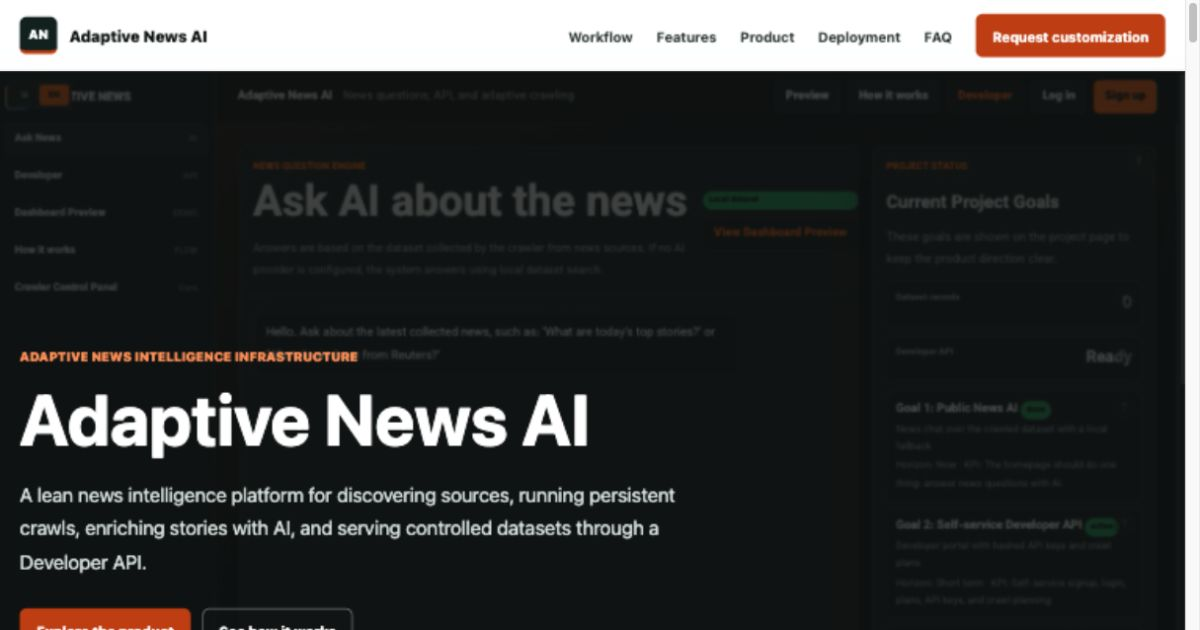
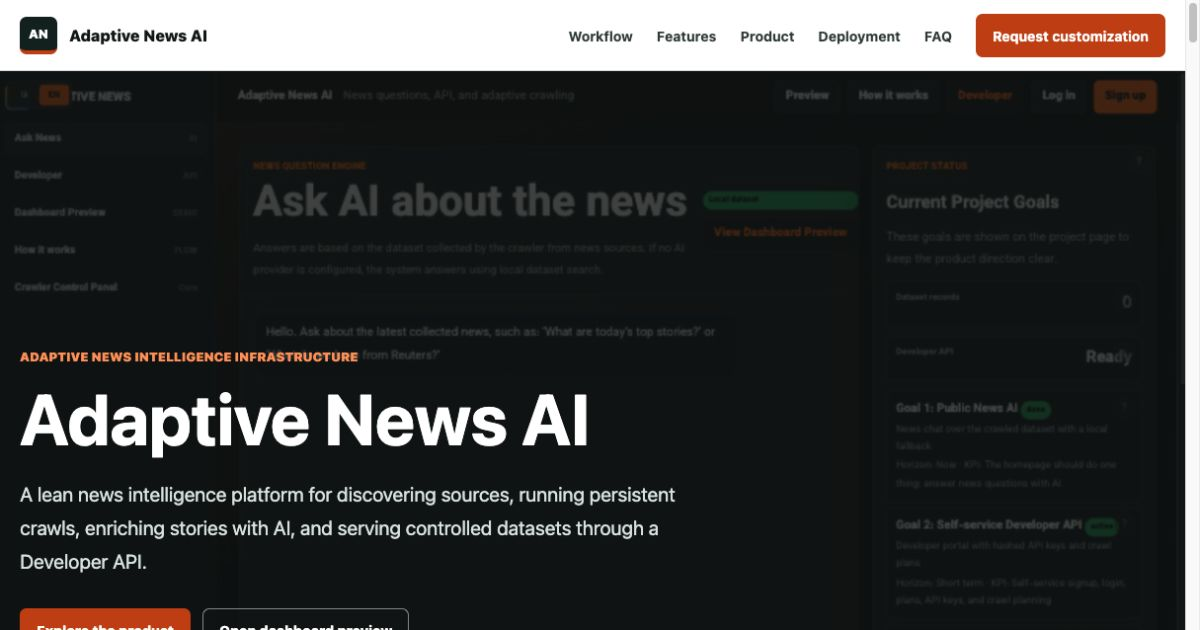
Add interactive dashboard preview

diff --git a/preview.html b/preview.html
@@ -1,0 +1,105 @@
+<!doctype html>
+<html lang="en" dir="ltr">
+<head>
+  <meta charset="utf-8">
+  <meta name="viewport" content="width=device-width, initial-scale=1, viewport-fit=cover">
+  <meta name="robots" content="index, follow">
+  <meta name="description" content="Interactive read-only preview of the Adaptive News AI operations dashboard.">
+  <link rel="canonical" href="https://digimasoud.github.io/adaptive-news-workflow/preview.html">
+  <link rel="icon" href="favicon.svg" type="image/svg+xml">
+  <title>Dashboard Preview | Adaptive News AI</title>
+  <style>
+    :root { --bg:#111817; --rail:#17211f; --panel:#1d2926; --panel-2:#24332f; --line:#334640; --text:#f4f7f6; --muted:#9fb0ab; --orange:#f36b21; --green:#43c48a; --yellow:#edb84b; }
+    * { box-sizing:border-box; letter-spacing:0; }
+    body { margin:0; min-height:100vh; color:var(--text); background:var(--bg); font-family:Inter,ui-sans-serif,system-ui,sans-serif; }
+    button,input,a { font:inherit; }
+    button { cursor:pointer; }
+    [hidden] { display:none !important; }
+    .gate { min-height:100vh; display:grid; grid-template-columns:minmax(0,1.35fr) minmax(340px,.65fr); }
+    .gate-copy { padding:clamp(36px,7vw,100px); display:flex; flex-direction:column; justify-content:space-between; background:#15201d; border-right:1px solid var(--line); }
+    .brand { display:flex; align-items:center; gap:12px; font-weight:900; }
+    .mark { width:38px; height:38px; display:grid; place-items:center; border-radius:7px; color:#fff; background:#0c2420; border:1px solid #31514a; }
+    .eyebrow { color:var(--orange); font-size:12px; font-weight:900; text-transform:uppercase; }
+    h1 { max-width:800px; margin:14px 0 18px; font-size:clamp(42px,6vw,78px); line-height:1.04; }
+    .lead { max-width:700px; color:var(--muted); font-size:18px; line-height:1.8; }
+    .proof { display:grid; grid-template-columns:repeat(3,minmax(0,1fr)); gap:14px; margin-top:36px; }
+    .proof div { padding:16px 0; border-top:1px solid var(--line); color:var(--muted); }
+    .proof b { display:block; color:var(--text); font-size:24px; }
+    .gate-side { padding:24px; display:grid; place-items:center; }
+    .access { width:min(100%,420px); }
+    .access h2 { margin:0; font-size:30px; }
+    .access p { color:var(--muted); line-height:1.7; }
+    form { display:grid; gap:16px; margin-top:24px; }
+    label { display:grid; gap:8px; color:var(--muted); font-size:13px; font-weight:800; }
+    input { min-height:48px; width:100%; padding:11px 13px; border:1px solid var(--line); border-radius:7px; outline:none; color:var(--text); background:var(--panel); }
+    input:focus { border-color:var(--orange); box-shadow:0 0 0 3px rgba(243,107,33,.15); }
+    .button { min-height:46px; display:inline-flex; align-items:center; justify-content:center; padding:10px 16px; border:1px solid var(--orange); border-radius:7px; color:#fff; background:var(--orange); font-weight:900; text-decoration:none; }
+    .button.ghost { color:var(--text); border-color:var(--line); background:transparent; }
+    .fine { margin-top:18px; color:var(--muted); font-size:12px; line-height:1.7; }
+    .dashboard { min-height:100vh; display:grid; grid-template-columns:230px minmax(0,1fr); }
+    .sidebar { padding:22px 14px; display:flex; flex-direction:column; gap:24px; border-right:1px solid var(--line); background:var(--rail); }
+    .nav { display:grid; gap:6px; }
+    .nav button { min-height:42px; padding:9px 12px; border:0; border-radius:6px; color:var(--muted); background:transparent; text-align:left; }
+    .nav button.active { color:var(--text); background:var(--panel-2); border-left:3px solid var(--orange); }
+    .account { margin-top:auto; padding-top:16px; border-top:1px solid var(--line); color:var(--muted); font-size:12px; overflow-wrap:anywhere; }
+    main { min-width:0; }
+    .topbar { min-height:76px; padding:16px 26px; display:flex; align-items:center; justify-content:space-between; gap:16px; border-bottom:1px solid var(--line); }
+    .topbar h2 { margin:0; font-size:22px; }
+    .topbar p { margin:4px 0 0; color:var(--muted); font-size:13px; }
+    .actions { display:flex; gap:10px; align-items:center; }
+    .badge { display:inline-flex; align-items:center; gap:7px; min-height:28px; padding:4px 9px; border:1px solid var(--line); border-radius:999px; color:var(--muted); font-size:12px; font-weight:800; }
+    .badge::before { content:""; width:7px; height:7px; border-radius:50%; background:var(--green); }
+    .content { padding:26px; display:grid; gap:22px; }
+    .intro { display:flex; justify-content:space-between; align-items:end; gap:14px; }
+    .intro h3 { margin:0; font-size:18px; }
+    .intro p,.small { margin:5px 0 0; color:var(--muted); font-size:12px; }
+    .stats { display:grid; grid-template-columns:repeat(5,minmax(0,1fr)); border-block:1px solid var(--line); }
+    .stat { min-width:0; padding:20px 16px; border-right:1px solid var(--line); }
+    .stat:last-child { border-right:0; }
+    .stat b { display:block; font-size:25px; overflow-wrap:anywhere; }
+    .stat span { color:var(--muted); font-size:12px; }
+    .grid { display:grid; grid-template-columns:minmax(0,1.6fr) minmax(280px,.8fr); gap:22px; }
+    .panel { overflow:hidden; border:1px solid var(--line); border-radius:8px; background:var(--panel); }
+    .panel-head { padding:16px 18px; display:flex; justify-content:space-between; gap:12px; border-bottom:1px solid var(--line); }
+    .panel-head h3 { margin:0; font-size:15px; }
+    .table-wrap { overflow-x:auto; }
+    table { width:100%; min-width:670px; border-collapse:collapse; }
+    th,td { padding:13px 16px; border-bottom:1px solid var(--line); text-align:left; font-size:13px; }
+    th { color:var(--muted); font-size:11px; text-transform:uppercase; }
+    tr:last-child td { border-bottom:0; }
+    .status { color:var(--green); font-weight:800; }
+    .scheduled { color:var(--yellow); }
+    .providers { display:grid; }
+    .provider { padding:15px 18px; display:grid; gap:5px; border-bottom:1px solid var(--line); }
+    .provider:last-child { border-bottom:0; }
+    .provider strong { display:flex; justify-content:space-between; gap:10px; }
+    .provider span { color:var(--muted); font-size:12px; }
+    @media(max-width:980px){ .gate{grid-template-columns:1fr}.gate-copy{min-height:48vh}.dashboard{grid-template-columns:180px minmax(0,1fr)}.grid{grid-template-columns:1fr}.stats{grid-template-columns:repeat(2,minmax(0,1fr))}.stat:last-child{grid-column:1/-1} }
+    @media(max-width:640px){ .gate-copy,.gate-side{padding:28px 20px}.proof{grid-template-columns:1fr}.dashboard{display:block}.sidebar{position:sticky;top:0;z-index:3;display:flex;flex-direction:row;align-items:center;padding:9px 12px;overflow-x:auto}.sidebar>.brand,.account{display:none}.nav{display:flex}.nav button{white-space:nowrap}.topbar{padding:18px;align-items:flex-start;flex-direction:column}.actions{width:100%}.actions .button{flex:1}.content{padding:18px}.intro{align-items:flex-start;flex-direction:column}.stat{padding:16px 12px} }
+  </style>
+</head>
+<body>
+  <section class="gate" id="gate">
+    <div class="gate-copy">
+      <div class="brand"><span class="mark">AN</span> Adaptive News AI</div>
+      <div><span class="eyebrow">Interactive product preview</span><h1>See the news operations dashboard in action.</h1><p class="lead">Enter an email and password to explore a realistic read-only view of sources, crawl plans, AI providers, usage, and extracted records.</p><div class="proof"><div><b>128</b>News sources</div><div><b>24K</b>Sample records</div><div><b>Read-only</b>No real operations</div></div></div>
+      <a class="button ghost" href="./">Back to Adaptive News AI</a>
+    </div>
+    <div class="gate-side"><div class="access"><h2>Open dashboard preview</h2><p>No production account is created. Preview access stays in this browser tab.</p><form id="accessForm"><label>Email<input name="email" type="email" autocomplete="email" placeholder="[email redacted]" required></label><label>Password<input name="password" type="password" autocomplete="new-password" minlength="8" placeholder="At least 8 characters" required></label><button class="button" type="submit">View dashboard preview</button></form><div class="fine">Your password is neither transmitted nor stored. This static preview cannot issue API keys, run crawls, or modify configuration.</div></div></div>
+  </section>
+  <section class="dashboard" id="dashboard" hidden>
+    <aside class="sidebar"><div class="brand"><span class="mark">AN</span> Adaptive News</div><nav class="nav"><button class="active">Dashboard</button><button>Sources</button><button>Crawl plans</button><button>AI providers</button><button>Dataset</button><button>Reports</button></nav><div class="account"><strong id="accountEmail"></strong><br>Read-only preview account</div></aside>
+    <main><header class="topbar"><div><h2>News operations dashboard</h2><p>Crawl, extraction, and service health overview</p></div><div class="actions"><span class="badge">PREVIEW MODE</span><button class="button ghost" id="exitPreview">Exit preview</button></div></header><div class="content"><div class="intro"><div><h3>Platform status</h3><p>Sample data only. No real operations are performed.</p></div><span class="small">Updated now</span></div><section class="stats"><div class="stat"><b>128</b><span>News sources</span></div><div class="stat"><b>24,730</b><span>Dataset records</span></div><div class="stat"><b>18,420</b><span>Successful requests</span></div><div class="stat"><b>8,240 / 50K</b><span>Monthly usage</span></div><div class="stat"><b>12</b><span>Healthy IPs</span></div></section><section class="grid"><div class="panel"><div class="panel-head"><h3>Crawl plans</h3><span class="small">Automatic execution</span></div><div class="table-wrap"><table><thead><tr><th>Plan</th><th>Target</th><th>Schedule</th><th>Status</th><th>Last run</th><th>Fetched</th></tr></thead><tbody><tr><td>Global breaking news</td><td>42 publishers</td><td>hourly</td><td class="status">healthy</td><td>8 minutes ago</td><td>316</td></tr><tr><td>Persian news desk</td><td>31 publishers</td><td>hourly</td><td class="status">healthy</td><td>14 minutes ago</td><td>204</td></tr><tr><td>Premium intelligence</td><td>8 authorized sources</td><td>daily</td><td class="status scheduled">scheduled</td><td>Yesterday</td><td>89</td></tr></tbody></table></div></div><div class="panel"><div class="panel-head"><h3>AI provider health</h3><span class="status">All ready</span></div><div class="providers"><div class="provider"><strong>Primary extraction <span class="status">ready</span></strong><span>News Extractor</span></div><div class="provider"><strong>Fast classifier <span class="status">ready</span></strong><span>URL Classifier</span></div><div class="provider"><strong>Local fallback <span class="status">ready</span></strong><span>Deterministic</span></div></div></div></section><section class="panel"><div class="panel-head"><h3>Latest extracted records</h3><span class="small">Sample dataset</span></div><div class="table-wrap"><table><thead><tr><th>Title</th><th>Source</th><th>Category</th><th>HTTP</th></tr></thead><tbody><tr><td>Energy markets react to new policy signals</td><td>Global Wire</td><td>Business</td><td class="status">200</td></tr><tr><td>AI research updates reshape developer tooling</td><td>Technology Desk</td><td>Technology</td><td class="status">200</td></tr><tr><td>Regional transport network announces expansion</td><td>Metro News</td><td>Society</td><td class="status">200</td></tr><tr><td>International talks continue into a second day</td><td>World Monitor</td><td>World</td><td class="status">200</td></tr></tbody></table></div></section></div></main>
+  </section>
+  <script>
+    const gate = document.querySelector('#gate');
+    const dashboard = document.querySelector('#dashboard');
+    const emailOutput = document.querySelector('#accountEmail');
+    function openPreview(email) { sessionStorage.setItem('adaptive-static-preview-email', email); emailOutput.textContent = email; gate.hidden = true; dashboard.hidden = false; }
+    document.querySelector('#accessForm').addEventListener('submit', event => { event.preventDefault(); const data = new FormData(event.currentTarget); openPreview(String(data.get('email') || '[email redacted]')); event.currentTarget.reset(); });
+    document.querySelector('#exitPreview').addEventListener('click', () => { sessionStorage.removeItem('adaptive-static-preview-email'); dashboard.hidden = true; gate.hidden = false; });
+    const savedEmail = sessionStorage.getItem('adaptive-static-preview-email');
+    if (savedEmail) openPreview(savedEmail);
+  </script>
+</body>
+</html>

diff --git a/index.html b/index.html
@@ -431,7 +431,7 @@
           <p class="hero-copy">A lean news intelligence platform for discovering sources, running persistent crawls, enriching stories with AI, and serving controlled datasets through a Developer API.</p>
           <div class="hero-actions">
             <a class="button primary" href="#product">Explore the product</a>
-            <a class="button outline" href="#workflow">See how it works</a>
+            <a class="button outline" href="preview.html">Open dashboard preview</a>
           </div>
         </div>
       </div>
@@ -461,6 +461,7 @@
           <article class="workflow-step"><span class="step-number">05</span><h3>Enrich</h3><p>Add AI summaries, entities, and topical tags through routed providers.</p></article>
           <article class="workflow-step"><span class="step-number">06</span><h3>Deliver</h3><p>Store records locally and expose controlled fields through scoped APIs.</p></article>
         </div>
+        <div class="hero-actions" style="margin-top:28px"><a class="button dark" href="preview.html">Launch interactive dashboard preview</a></div>
       </div>
     </section>
 